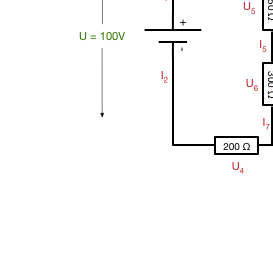
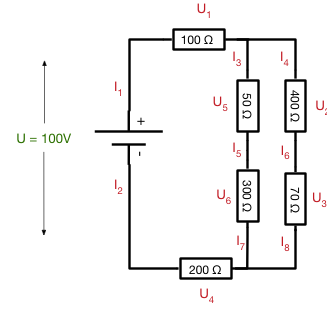
Working....

diff --git a/03_codes/readme.md b/03_codes/readme.md
@@ -1,0 +1,49 @@
+# Kompression und Codierung
+
+> "Ein Bit kommt selten allein."
+
+Sie haben so viel gelernt über die Darstellung von Daten im Computer, dass Sie vor lauter Stolz eine kleine Zusammenfassung geschrieben haben. Ein Studienkollege von Ihnen möchte diese auch haben und Sie wollen sie ihm per E-Mail schicken. Aber das Dokument ist zu groß. Sie schicken Ihrem Freund eine WhatsApp "Ist zu groß, passt nicht in die E-Mail" und er antwortet Ihnen "dann musst du es zippen". Was bitte bedeutet "zippen"? Sie kennen nur "zipper" aus einem Schüleraustausch in England aber die Details sind peinlich. Zum Glück kennt sich ein andere Kommilitone damit aus und "zippt" Ihre Datei. Prompt schrumpft Sie von 5 MB auf 1 MB und lässt sich jetzt problemlos versenden.
+
+## Aufgabe
+
+  - Recherchieren Sie Informationen zu Fehlertoleranten Codes und dem Hamming-Abstand
+  - Schauen Sie sich verschiedene Verfahren zur Fehlererkennung und -Korrektur an
+  - Informieren Sie sich über Kompressionsverfahren, insbesondere RLE, Huffmann-Kodierung und LZ77
+
+## Themen
+
+  - Fehlertolerante Codes
+  - Hamming-Abstand
+  - Paritätsprüfung (Ein- und Zweidimensional)
+  - CRC-Prüfsummen
+  - Verlustbehaftete und verlustlose Kompression
+  - Lauflängencodierung
+  - Huffmann-Kodierung
+  - Lempel-Ziv-Kompression
+
+## Begriffe
+
+  - Cyclic Reundancy Check
+  - Entropie
+  - Fano-Bedingung
+  - Codes: Fehlererkennend, fehlerkorrigierend, fehlertolerant
+  - Hamming-Codes
+  - Hammingabstand
+  - Huffman-Kodierung
+  - Lempel-Ziv-Kodierungen
+  - Parity-Bit
+  - Run Lenght Encoding
+  - Shannon-Fano-Kodierung
+  - Kompression: Verlustbehaftete, verlustfrei
+  - Wörterbuch
+  - k-aus-n-Code
+
+## Quellen
+
+  * Herold, et al. "Grundlagen der Informatik", 3. Auflage, Pearson Studium, Halbergmoos 2017, S. 749--798
+  * [Youtube: Datenkompression LZ77 Kodierung](https://www.youtube.com/watch?v=dxlOFcnGE-w)
+  * [Youtube: LZW-Kodierung](https://www.youtube.com/watch?v=dLvvGXwKUGw)
+
+## Übung
+
+Bitte bearbeiten Sie die [Übung](exercise.md) zu diesem Kapitel.

diff --git a/03_codes/exercise.md b/03_codes/exercise.md
@@ -1,0 +1,62 @@
+# Übungen
+
+#### Aufgabe 1
+Bestimmen Sie die Hamming-Distanzen für die folgenden Codes:
+
+  * { 110101, 101011, 010011, 101100 }
+  * { 2B, 4A, 78, A9 }
+
+#### Aufgabe 2
+Bestimmen Sie die Hamming-Distanz für den Code {1101011, 1010110, 0000011, 0001100} und modifizieren Sie diesen Code dann durch Änderung eines einzigen Bit so, dass sich eine um eins erhöhte Hamming-Distanz ergibt.
+
+
+#### Aufgabe 3
+Bei einer seriellen Datenübermittlung werden mit 7 Bit codierte ASCII-Zeichen mit einem zusätzlichen Paritätsbit und einem Längsprüfwort nach jeweils 8 Zeichen gesendet. Es gilt gerade Parität. Es
+wird folgende Nachricht empfangen:
+
+```console
+1000110 1
+0110010 0
+1100101 0
+1101001 0
+1100010 1
+1101001 0
+1100101 0
+1110010 0
+
+0100100 0
+```
+
+Wie lautet die empfangene Nachricht? Sind Übertragungsfehler aufgetreten? Wenn ja, wie lautet die korrekte Nachricht?
+
+
+#### Aufgabe 4
+Berechnen Sie für die Nachricht ` 1101011010` die CRC-Prüfsumme mit dem Prüfpolynom `10011`.
+
+
+#### Aufgabe 5
+Sie haben die Nachricht `100110110101` erhalten. Das Prüfpolynom ist `10011`. Ist die Nachricht korrekt übertragen worden?
+
+#### Aufgabe 6
+Komprimieren Sie das folgende Bild mit Hilfe eines Run-Length-Encodings. Geben Sie das Ergebnis an.
+
+![](img/ghost.png)
+
+Wieviel Platz spart Ihre Codierung im Vergleich zu einer Speicherung ohne Kompression?
+
+#### Aufgabe 7
+Gegeben ist folgende Häufigkeitsverteilung für eine Menge von Zeichen:
+
+| Zeichen	      | R | I | C | H | T | G |
+|---------------|---|---|---|---|---|---|
+| Häufigkeit [%]|25 |21 |19 |18 |13 |4  |
+
+Generieren Sie einen Huffman-Code für die angegebene Menge
+
+Dekodieren Sie folgende Nachricht (von links nach rechts!) `0010110100110100111` mittels des generierten Code.
+
+
+#### Aufgabe 8
+Komprimieren Sie das folgende Bild mit Hilfe des LZ77-Algorithmus. Verwenden Sie ein Datenfenster und einen Vorausschaupuffer der Größe 8. Geben Sie das Ergebnis in der Form (x, x, Z) an.
+
+![](img/bird.png)

diff --git a/04_hardware/readme.md b/04_hardware/readme.md
@@ -10,15 +10,33 @@ Sammeln Sie Informationen, wie Computer prinzipiell aufgebaut sind und aus welch
 
 ## Themen
 
-  - Genereller Aufbau
+  - Genereller Aufbau: Zentraleinheit, Eingabe, Ausgabe
   - CPU
-  - Speicher
-  - Peripherie
+  - Speicher: RAM, Cache
+  - Peripherie: Massenspeicher
 
 ## Begriffe
 
-Schlüsselbegriffe: ALU, Adresse, Anwendungsprogramme, Betriebssystem, Big Endian, Block, Bus, Byte, CISC, CPU, Central Processing Unit, Clock, DRAM, Doppelwort, Exabyte, Exbibyte, Festplatte, Funktionseinheiten, Gibibyte, Gigabyte, Hardware, Hauptspeicher, Instruction Register, Kibibyte, Kilobyte, Langwort, Latenz, Little Endian, Maschineninstruktionen, Maschinensprache, Mebibyte, Megabyte, Pebibyte, Petabyte, Primärspeicher, Program Counter, RAM, RISC, ROM, SRAM, SSD, Sekundärspeicher, Software, Solid-State-Drive, Steuerwerk, Suchzeit, Systemprogramme, Tebibyte, Terabyte, Tertiärspeicher, Transferrate, Wort, direktadressierbaren Speichermedien, high-order byte, low-order byte
+  - ALU
+  - Adresse
+  - Bus
+  - CPU, Central Processing Unit
+  - Festplatte
+  - Hauptspeicher
+  - Instruction Register
+  - Maschinensprache
+  - Primärspeicher
+  - Program Counter
+  - RAM, ROM
+  - SSD (Solid-State-Drive)
+  - Sekundärspeicher
+  - Steuerwerk
+  - Tertiärspeicher
 
 ## Quellen
 
   * Herold, et al. "Grundlagen der Informatik", 3. Auflage, Pearson Studium, Halbergmoos 2017, S. 91--134
+
+## Übung
+
+Bitte bearbeiten Sie die [Übung](exercise.md) zu diesem Kapitel.

diff --git a/04_hardware/exercise.md b/04_hardware/exercise.md
@@ -1,0 +1,16 @@
+# Übungen
+
+#### Aufgabe 1
+Stellen Sie zwei PCs zusammen, einmal einen mit maximaler Leistung für Computer-Spiele und einmal einen einfachen Rechner für das Surfen im Internet. Verwenden Sie keinen komplett PC, sondern stellen Sie die Geräte aus einzelnen Komponenten zusammen, die Sie im Internet bei einem Hardware-Versand (z.B. [Alternate](https://www.alternate.de)) finden. Stellen Sie eine Stückliste, inklusive Preisen zusammen.
+
+
+#### Aufgabe 2
+Finden Sie heraus, welche Register ein moderner Intel-Prozessor (z.B. i7-7700k) hat und wozu die einzelnen Register dienen. Stellen Sie eine kurze Übersicht zusammen.
+
+
+#### Aufgabe 3
+Wie viel Speicher kann ein Computer adressieren, wenn seine Adressen 16 Bit lang sind?
+
+
+#### Aufgabe 4
+Angenommen eine Digitalkamera hat eine Speicherkapazität von 256 MiB. Wie viele Fotos kann man auf der Kamera speichern, wenn jedes eine Auflösung von 1024 x 1024 Pixel hat und pro Pixel drei Byte benötigt werden?

diff --git a/05_digital_logic/exercise.md b/05_digital_logic/exercise.md
@@ -35,4 +35,24 @@ Geben Sie die Schaltfunktion in disjunktiver Normalform an, erstellen Sie das zu
 
 
 #### Aufgabe 6
+Berechnen Sie für den unten angegebenen Stromkreis, welche Leistung (in Watt) verbraucht wird.
+
+![](img/stromkreis_einfach.png)
+
+
+#### Aufgabe 7
+Berechnen Sie für den unten angegebenen Stromkreis alle fehlenden Größen.
+
 ![](img/stromkreis_komplex.png)
+
+
+#### Aufgabe 8
+Entwerfen Sie unter Verwendung von Gattern mit zwei Eingängen ein Oder-Gatter mit 4 Eingängen.
+
+
+#### Aufgabe 9
+Entwerfen Sie eine Schaltung mit Gattern, die prüft ob einer der Passagiere seinen Gurt geschlossen hat (High-Signal vom Gurtsensor). Ist der Platz leer (Low-Signal vom Sitzplatzsensor)
+so darf auch der Gurt offen sein. Ist der Platz besetzt und der Gurt offen soll die
+Schaltung ein High-Signal ausgeben. Verknüpfen Sie dann zwei Sitzplätze zu einem Ergebnis-Signal.
+
+Entwerfen Sie zuerst eine Wahrheitstabelle und geben Sie dann eine Schaltung mit Gattern an.

diff --git a/01_intro/exercise.md b/01_intro/exercise.md
@@ -15,7 +15,7 @@ Nennen Sie zu jeder Computergeneration die Technologie, die sie möglich gemacht
 Welche Bedeutung kommt Konrad Zuse zu? Warum wird sein Beitrag häufig übersehen?
 
 #### Aufgabe 5
-Der Intel Core i7-620M (Arrandale) hatte im Januar 2010 382 Millionen Transistoren. Wieviele ransistoren müsste nach Moores Vorhersage ein Core i7-5557U (Broadwell-U) im Januar 2015 gehabt haben? Wieviele Transistoren hatte er wirklich?
+Der Intel Core i7-620M (Arrandale) hatte im Januar 2010 382 Millionen Transistoren. Wieviele Transistoren müsste nach Moores Vorhersage ein Core i7-5557U (Broadwell-U) im Januar 2015 gehabt haben? Wieviele Transistoren hatte er wirklich?
 
 #### Aufgabe 6
 Welche Algorithmen kennen Sie bereits? Nennen Sie Beispiele und wie der Algorithmus abläuft.

diff --git a/02_information/exercise.md b/02_information/exercise.md
@@ -4,7 +4,7 @@
 Lässt sich die Zahl π als Nachricht übermitteln?
 
 #### Aufgabe 2
-Schätzungen zufolge besteht das Universum aus einer Tredezillion Atomen (10^78). Welche Bitbreite ist mindestens notwendig, um diese Zahl im Rechner zu speichern?*
+Schätzungen zufolge besteht das Universum aus einer Tredezillion Atomen (10^78). Welche Bitbreite ist mindestens notwendig, um diese Zahl im Rechner zu speichern?
 
 #### Aufgabe 3
 Vervollständigen Sie die leeren Felder:
@@ -56,7 +56,6 @@ Führen Sie die folgenden binären Rechenoperationen durch
 
 
 #### Aufgabe 7
-
 Überlegen Sie sich ein Schema, wie das folgende Bild in Bits umgewandelt werden kann. Versuchen Sie die Daten so kompakt wie möglich abzulegen.
 
 ![](img/mario.png)

diff --git a/readme.md b/readme.md
@@ -4,7 +4,7 @@
 
   1. [Einführung](01_intro/readme.md)
   2. [Information](02_information/readme.md)
-  3. [Kompression und Codierung](03_compression/readme.md)
+  3. [Kompression und Codierung](03_codes/readme.md)
   4. [Computerhardware](04_hardware/readme.md)
   5. [Schaltnetze](05_digital_logic/readme.md)
   6. [Betriebssysteme](06_os/readme.md)

diff --git a/06_os/exercise.md b/06_os/exercise.md
@@ -1,0 +1,3 @@
+# Übungen
+
+#### Aufgabe 1

diff --git a/07_programming/exercise.md b/07_programming/exercise.md
@@ -1,0 +1,3 @@
+# Übungen
+
+#### Aufgabe 1

diff --git a/08_automata/exercise.md b/08_automata/exercise.md
@@ -1,0 +1,3 @@
+# Übungen
+
+#### Aufgabe 1

diff --git a/09_computability/exercise.md b/09_computability/exercise.md
@@ -1,0 +1,3 @@
+# Übungen
+
+#### Aufgabe 1
